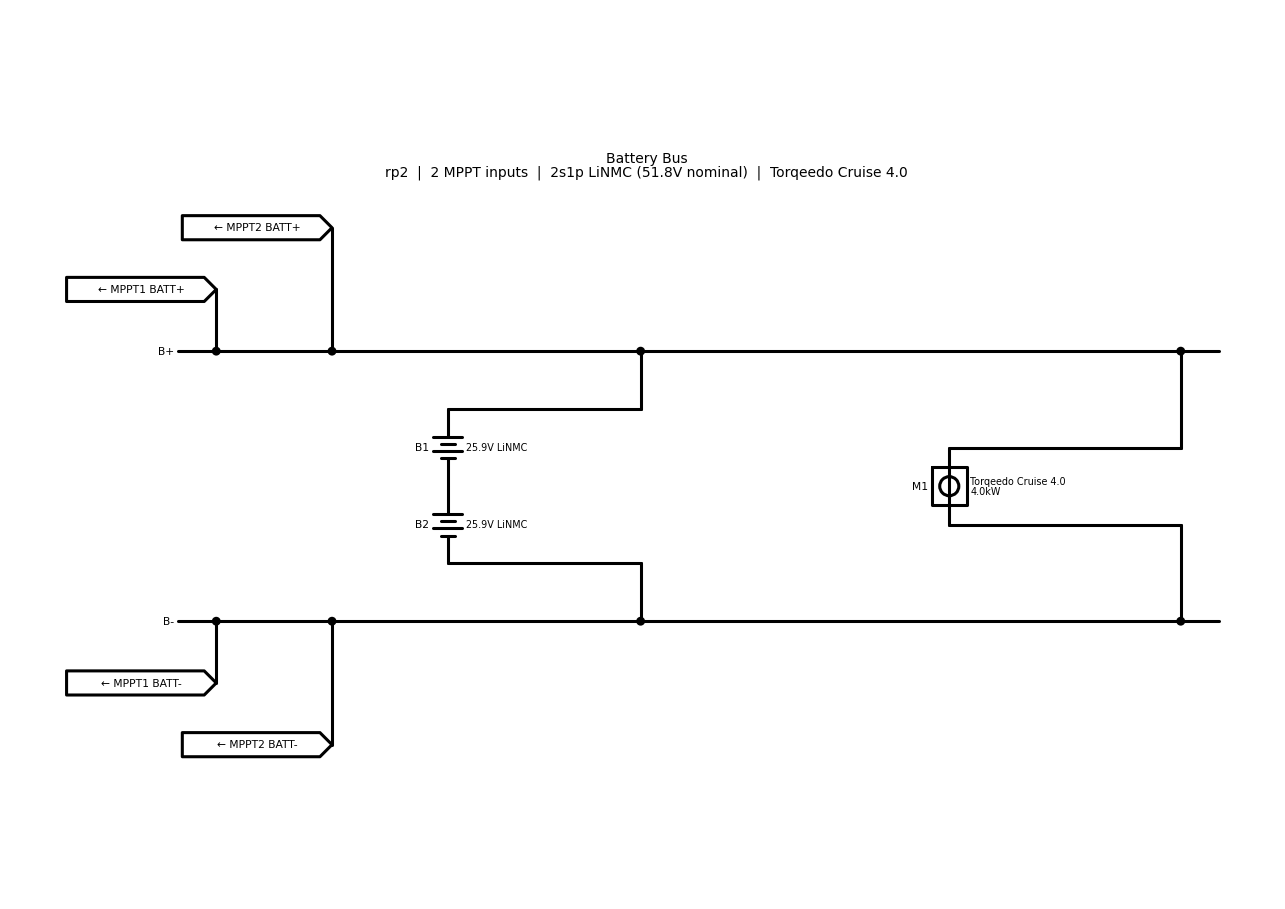
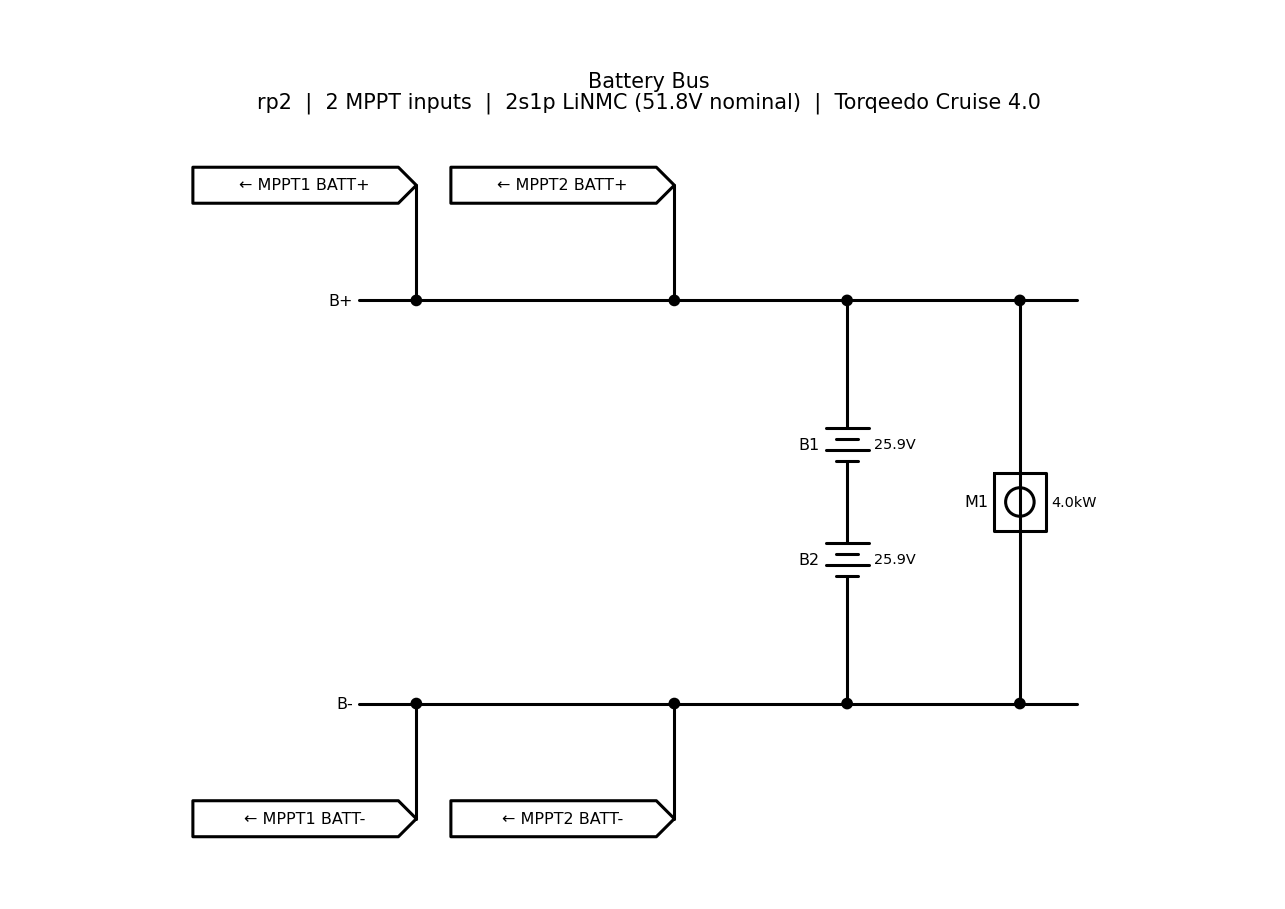
Tighten battery bus layout with straight bus taps
The bank connections previously reused draw_array, whose rails place the
array terminals off to the right of the bank, so each connection reached
the bus bar via a horizontal step. The offset also grew with every added
parallel string, pushing the load further right and forcing the whole
page to scale down.

On this page the bus bars are themselves the paralleling node, so rails
are unnecessary: each string now drops straight from B+ to B- with its
own junction dot on each bar. Loads are drawn the same way. draw_array is
still used by the MPPT pages, where the two terminals genuinely must
emerge on one side at a fixed pin gap.

Also tightened the layout:
- incoming tags now sit in one row per rail instead of a diagonal stack,
  spaced by the widest tag body, so page height no longer grows with the
  MPPT count
- horizontal spacing reduced now that no rails need clearing
- symbols carry only their designator and value; chemistry and load names
  are already in the page subtitle, and repeating them widened the page

Net effect on font scale: rp2 x0.70 -> x1.05, rp3 x0.56 -> x0.88.

diff --git a/src/electrical_drawing/drawings/battery_bus_drawing.py b/src/electrical_drawing/drawings/battery_bus_drawing.py
@@ -9,41 +9,52 @@ them:
 * the battery bank, wired between the two bars
 * each load, wired between the two bars in parallel with the battery
 
+Banks are drawn as vertical strings that tap both bars directly, rather than
+through :func:`~src.electrical_drawing.Array_Creator.draw_array`. On this page the
+bus bars are themselves the paralleling node, so each string can run straight
+down from ``B+`` to ``B-`` with no horizontal rails. That keeps every lead
+straight, gives each string its own junction dot, and keeps the page narrow. The
+rail-based ``draw_array`` layout is still what the MPPT pages use, where the two
+terminals genuinely do have to emerge on one side at a fixed pin gap.
+
 Bus bars are drawn last so they can be sized to span every tap point.
 """
 
 from __future__ import annotations
 
-from typing import Optional
+from typing import Optional, Type
 
 import schemdraw
 import schemdraw.elements as elm
 from schemdraw.util import Point
 
-from ..Array_Creator import draw_array
 from ..components.Battery import Battery
 from ..components.Load import Load
 from ..configurations.config import BatterySpec, CircuitConfig, LoadSpec
 from ..configurations.constants import (
+    BANK_GAP,
     BASE_FONTSIZE,
     BATTERY_SPACING,
     BUS_RAIL_GAP,
     BUS_SEGMENT,
     COMPONENT_DISTANCE,
-    LOAD_RAIL,
     LOAD_SPACING,
+    TAG_ROW_GAP,
 )
 from .mppt_panel_drawing import add_title
-from .tags import NEGATIVE, POSITIVE, incoming_tag, mppt_net
+from .tags import NEGATIVE, POSITIVE, incoming_tag, mppt_net, tag_width
 
-# Vertical spacing between successive tag rows outside the bus bars.
-TAG_ROW_GAP = 1.6
+# Horizontal clearance between adjacent tag bodies.
+TAG_CLEARANCE = 0.6
 
-# Clearance kept between a bus bar and the array wired to it.
+# Clearance kept between a bus bar and the nearest element of a bank.
 BUS_CLEARANCE = 1.5
 
 # Horizontal padding added to each end of the bus bars.
 BUS_OVERHANG = 1.0
+
+# Leads shorter than this are skipped rather than drawn as zero-length lines.
+MIN_LEAD = 1e-9
 
 
 def _bus_gap(battery: Optional[BatterySpec]) -> float:
@@ -53,17 +64,76 @@ def _bus_gap(battery: Optional[BatterySpec]) -> float:
     return max(BUS_RAIL_GAP, stack_height + 2 * BUS_CLEARANCE)
 
 
-def _connect_to_buses(
+def _add_string(
     drawing: schemdraw.Drawing,
-    terminals,
+    element: Type[elm.Element],
+    series: int,
+    x: float,
+    top_y: float,
+    label_prefix: str,
+    start_index: int,
+    element_kwargs: dict,
+) -> Point:
+    """Draw one vertical string of ``series`` elements downwards from ``(x, top_y)``.
+
+    Returns the bottom end of the string.
+    """
+    here = Point((x, top_y))
+    for offset in range(series):
+        component = (
+            element(**element_kwargs)
+            .down()
+            .at(here)
+            .label(f'{label_prefix}{start_index + offset}')
+        )
+        drawing.add(component)
+        here = component.end
+    return Point(here)
+
+
+def _tap_bus(drawing: schemdraw.Drawing, point, bus_y: float) -> None:
+    """Run a straight vertical lead from ``point`` to ``bus_y`` and dot the junction."""
+    if abs(point.y - bus_y) > MIN_LEAD:
+        drawing.add(elm.Line().at(point).toy(bus_y))
+    drawing.add(elm.Dot().at((point.x, bus_y)))
+
+
+def _add_bank(
+    drawing: schemdraw.Drawing,
+    element: Type[elm.Element],
+    series: int,
+    parallel: int,
+    start_x: float,
+    spacing: float,
     positive_y: float,
     negative_y: float,
-) -> None:
-    """Run each terminal of an array vertically onto its bus bar."""
-    drawing.add(elm.Line().at(terminals.positive).toy(positive_y))
-    drawing.add(elm.Dot().at((terminals.positive.x, positive_y)))
-    drawing.add(elm.Line().at(terminals.negative).toy(negative_y))
-    drawing.add(elm.Dot().at((terminals.negative.x, negative_y)))
+    label_prefix: str,
+    element_kwargs: Optional[dict] = None,
+    start_index: int = 1,
+) -> float:
+    """Draw ``parallel`` vertical strings between the bus bars.
+
+    Every string taps both bars directly, so the bars do the paralleling and no
+    horizontal rails are needed. Returns the x of the right-most string.
+    """
+    element_kwargs = element_kwargs or {}
+
+    stack_height = series * COMPONENT_DISTANCE
+    centre_y = (positive_y + negative_y) / 2
+    top_y = centre_y + stack_height / 2
+
+    index = start_index
+    x = start_x
+    for string in range(max(1, parallel)):
+        x = start_x + string * spacing
+        bottom = _add_string(
+            drawing, element, series, x, top_y, label_prefix, index, element_kwargs
+        )
+        _tap_bus(drawing, Point((x, top_y)), positive_y)
+        _tap_bus(drawing, bottom, negative_y)
+        index += series
+
+    return x
 
 
 def _add_incoming_tags(
@@ -75,19 +145,28 @@ def _add_incoming_tags(
 ) -> list[float]:
     """Add one tag pair per MPPT and drop each onto its bus bar.
 
-    Successive MPPTs are placed further right *and* further from the bus bars, so
-    no vertical lead ever crosses another tag body.
+    All positive tags share one row above the positive bar and all negative tags
+    one row below the negative bar, spaced far enough apart that no two tag
+    bodies overlap. Keeping them to a single row per rail costs width but keeps
+    the page height independent of the MPPT count, and height is what usually
+    limits the scale.
 
     Returns the tap x positions used.
     """
+    # Space taps by the widest tag body so the flags cannot collide. The widest
+    # label is the highest index, which may have more digits than the first.
+    spacing = max(
+        BUS_SEGMENT,
+        tag_width(mppt_net(max(mppt_count, 1), POSITIVE)) + TAG_CLEARANCE,
+    )
+
     tap_positions = []
     for index in range(1, mppt_count + 1):
-        tap_x = first_tap_x + (index - 1) * BUS_SEGMENT
+        tap_x = first_tap_x + (index - 1) * spacing
         tap_positions.append(tap_x)
-        offset = index * TAG_ROW_GAP
 
         # Positive tag sits above the positive bus and drops down onto it.
-        tag_positive_y = positive_y + offset
+        tag_positive_y = positive_y + TAG_ROW_GAP
         drawing.add(
             incoming_tag(mppt_net(index, POSITIVE), fontsize=BASE_FONTSIZE)
             .at((tap_x, tag_positive_y))
@@ -96,7 +175,7 @@ def _add_incoming_tags(
         drawing.add(elm.Dot().at((tap_x, positive_y)))
 
         # Negative tag sits below the negative bus and rises onto it.
-        tag_negative_y = negative_y - offset
+        tag_negative_y = negative_y - TAG_ROW_GAP
         drawing.add(
             incoming_tag(mppt_net(index, NEGATIVE), fontsize=BASE_FONTSIZE)
             .at((tap_x, tag_negative_y))
@@ -107,73 +186,31 @@ def _add_incoming_tags(
     return tap_positions
 
 
-def _add_battery_bank(
-    drawing: schemdraw.Drawing,
-    battery: BatterySpec,
-    start_x: float,
-    positive_y: float,
-    negative_y: float,
-    gap: float,
-):
-    """Draw the battery bank between the bus bars and return its terminals."""
-    stack_height = battery.in_series * COMPONENT_DISTANCE
-    top_y = positive_y - (gap - stack_height) / 2
-
-    drawing.here = Point((start_x, top_y))
-    drawing, terminals = draw_array(
-        drawing=drawing,
-        element=Battery,
-        series=battery.in_series,
-        parallel=battery.in_parallel,
-        label_prefix='B',
-        spacing=BATTERY_SPACING,
-        # Request the array's natural terminal gap so no dogleg is inserted; the
-        # vertical leads to the bus bars do the routing instead.
-        terminateDist=stack_height,
-        element_kwargs={
-            'voltage': battery.block_voltage,
-            'chemistry': battery.choice,
-        },
-    )
-    _connect_to_buses(drawing, terminals, positive_y, negative_y)
-    return terminals
-
-
 def _add_loads(
     drawing: schemdraw.Drawing,
     loads: list[LoadSpec],
     start_x: float,
     positive_y: float,
     negative_y: float,
-    gap: float,
 ) -> float:
-    """Draw each load in parallel across the bus bars.
-
-    Returns the right-most x reached.
-    """
-    stack_height = COMPONENT_DISTANCE
-    top_y = positive_y - (gap - stack_height) / 2
+    """Draw each load as its own single-element string across the bus bars."""
     rightmost = start_x
-
     for offset, load in enumerate(loads):
-        drawing.here = Point((start_x + offset * LOAD_SPACING, top_y))
-        drawing, terminals = draw_array(
-            drawing=drawing,
+        rightmost = _add_bank(
+            drawing,
             element=Load,
             series=1,
             parallel=1,
+            start_x=start_x + offset * LOAD_SPACING,
+            spacing=LOAD_SPACING,
+            positive_y=positive_y,
+            negative_y=negative_y,
             label_prefix='M',
             start_index=offset + 1,
-            spacing=LOAD_RAIL,
-            terminateDist=stack_height,
-            element_kwargs={
-                'name': load.display_name,
-                'power_watts': load.total_power,
-            },
+            # Power only: the load names are listed in the page subtitle, and
+            # repeating them on every symbol makes the page much wider.
+            element_kwargs={'power_watts': load.total_power},
         )
-        _connect_to_buses(drawing, terminals, positive_y, negative_y)
-        rightmost = max(rightmost, terminals.positive.x)
-
     return rightmost
 
 
@@ -200,29 +237,34 @@ def generate_battery_bus_drawing(
     negative_y = -gap
 
     mppt_count = config.total_mppt_count
-    first_tap_x = 0.0
 
-    tap_positions = _add_incoming_tags(
-        drawing, mppt_count, positive_y, negative_y, first_tap_x
-    )
+    tap_positions = _add_incoming_tags(drawing, mppt_count, positive_y, negative_y, 0.0)
 
-    tap_end = tap_positions[-1] if tap_positions else first_tap_x
-    battery_x = tap_end + BUS_SEGMENT
+    tap_end = tap_positions[-1] if tap_positions else 0.0
+    rightmost = tap_end
 
-    rightmost = battery_x
     if battery:
-        battery_terminals = _add_battery_bank(
-            drawing, battery, battery_x, positive_y, negative_y, gap
+        rightmost = _add_bank(
+            drawing,
+            element=Battery,
+            series=battery.in_series,
+            parallel=battery.in_parallel,
+            start_x=tap_end + BANK_GAP,
+            spacing=BATTERY_SPACING,
+            positive_y=positive_y,
+            negative_y=negative_y,
+            label_prefix='B',
+            # Voltage only: the chemistry is named in the page subtitle.
+            element_kwargs={'voltage': battery.block_voltage},
         )
-        rightmost = battery_terminals.positive.x
 
     if config.loads:
         rightmost = _add_loads(
-            drawing, config.loads, rightmost + LOAD_SPACING, positive_y, negative_y, gap
+            drawing, config.loads, rightmost + BANK_GAP, positive_y, negative_y
         )
 
     # --- Bus bars, sized to span every tap ---------------------------------
-    bus_start_x = min(tap_positions) - BUS_OVERHANG if tap_positions else first_tap_x
+    bus_start_x = min(tap_positions) - BUS_OVERHANG if tap_positions else 0.0
     bus_end_x = rightmost + BUS_OVERHANG
     drawing.add(
         elm.Line()

diff --git a/src/electrical_drawing/configurations/constants.py b/src/electrical_drawing/configurations/constants.py
@@ -22,8 +22,7 @@ MPPT_INPUT_LEAD = 2
 TAG_LEAD = 1.5
 
 # Battery bus drawing geometry.
-BUS_STUB = 1.5          # lead length from an incoming Tag to the bus bar
-BUS_SEGMENT = 3         # horizontal spacing between bus tap points
+BUS_SEGMENT = 2.5       # horizontal spacing between incoming tag tap points
 BUS_RAIL_GAP = 6        # vertical separation between the +ve and -ve bus bars
 
 
@@ -42,12 +41,17 @@ TAG_MIN_WIDTH = 1.5
 # Horizontal spacing between parallel strings, widened for arrays whose
 # elements carry wide labels.
 PANEL_SPACING = 2.5
-BATTERY_SPACING = 5
 
-# Loads carry wide name labels, so their output rails are run further right to
-# keep the bus tap clear of the text, and successive loads are spaced wider.
-LOAD_RAIL = 6
-LOAD_SPACING = 8
+# On the bus page each string taps the bars directly, so spacing only has to
+# clear the symbol labels: the designator sits left of a string, the value right.
+BATTERY_SPACING = 3.5
+LOAD_SPACING = 3.5
+
+# Horizontal gap left between groups on the bus page (tags -> bank -> loads).
+BANK_GAP = 3
+
+# Distance from a bus bar out to its row of incoming tags.
+TAG_ROW_GAP = 2.0
 
 # Vertical gap between the title and the top of a drawing.
 TITLE_OFFSET = 1.2

diff --git a/src/electrical_drawing/README.md b/src/electrical_drawing/README.md
@@ -48,7 +48,11 @@ bars, the 2s1p bank and the load:
 
 ![rp2 battery bus page](../../docs/images/electrical_drawing/rp2.battery_bus.png)
 
-The same page for rp3, where the tag stack grows to three pairs and the bank is
+On this page the bus bars are the paralleling node, so every string — each
+battery string and each load — drops straight down from `B+` to `B-` with its own
+junction dot on each bar. No horizontal rails and no angled leads are needed.
+
+The same page for rp3, where the tag row grows to three pairs and the bank is
 2s2p:
 
 ![rp3 battery bus page](../../docs/images/electrical_drawing/rp3.battery_bus.png)
